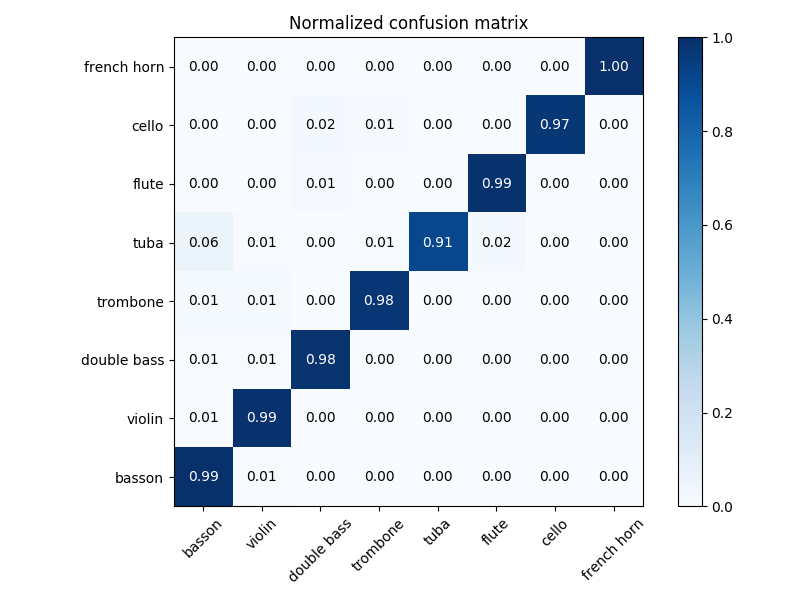
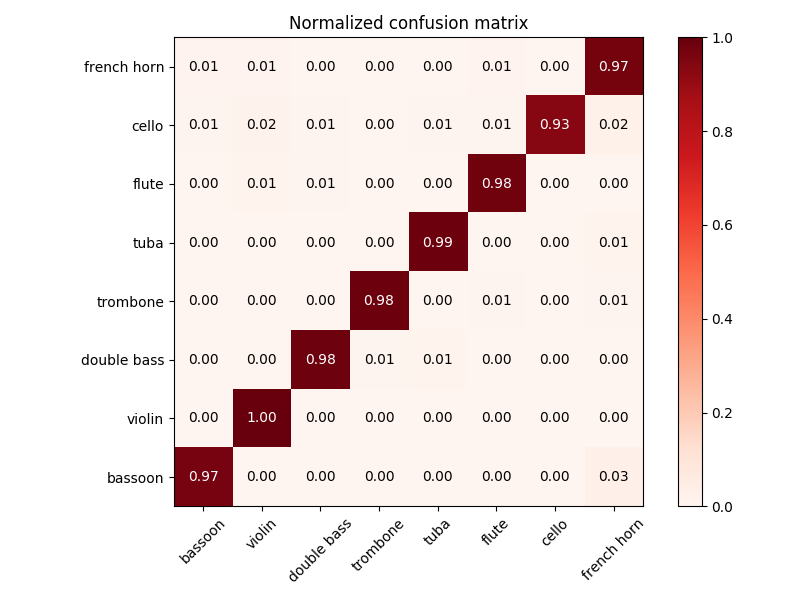
small changes

diff --git a/neural_network_cnn.py b/neural_network_cnn.py
@@ -12,9 +12,7 @@ from confusion_matrix_plot import plot_confusion_matrix
 from extract_all_features_cnn import DURATION
 
 
-def train_cnn():
-    (train_x, train_y), (test_x, test_y) = instrument_data_cnn.load_data()
-
+def build_model():
     classifier = models.Sequential()
     classifier.add(layers.Conv2D(20, (3, 3), activation='relu', input_shape=(20, DURATION, 1)))
     classifier.add(layers.MaxPooling2D((2, 2)))
@@ -25,6 +23,13 @@ def train_cnn():
     classifier.add(layers.Flatten())
     classifier.add(layers.Dense(64, activation='relu'))
     classifier.add(layers.Dense(8, activation='softmax'))
+    return classifier
+
+
+def train_cnn():
+    (train_x, train_y), (test_x, test_y) = instrument_data_cnn.load_data()
+
+    classifier = build_model()
 
     classifier.compile(optimizer='adam',
                        loss='sparse_categorical_crossentropy',

diff --git a/confusion_matrix_plot.py b/confusion_matrix_plot.py
@@ -8,7 +8,7 @@ import matplotlib.pyplot as plt
 def plot_confusion_matrix(cm, classes,
                           normalize=False,
                           title=None,
-                          cmap=plt.cm.Blues):
+                          cmap=plt.cm.Reds):
     """
     This function prints and plots the confusion matrix.
     Normalization can be applied by setting `normalize=True`.
